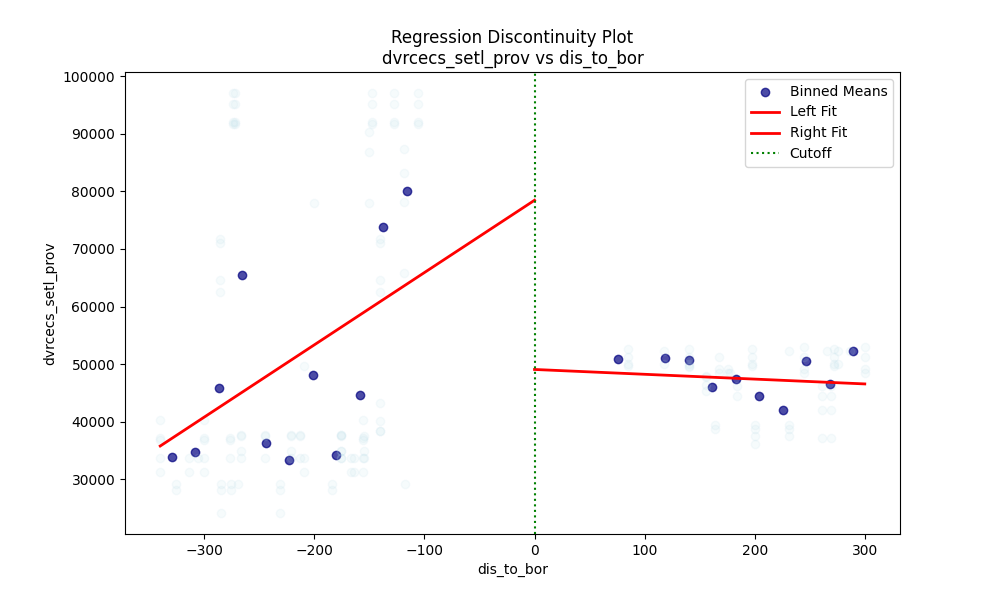
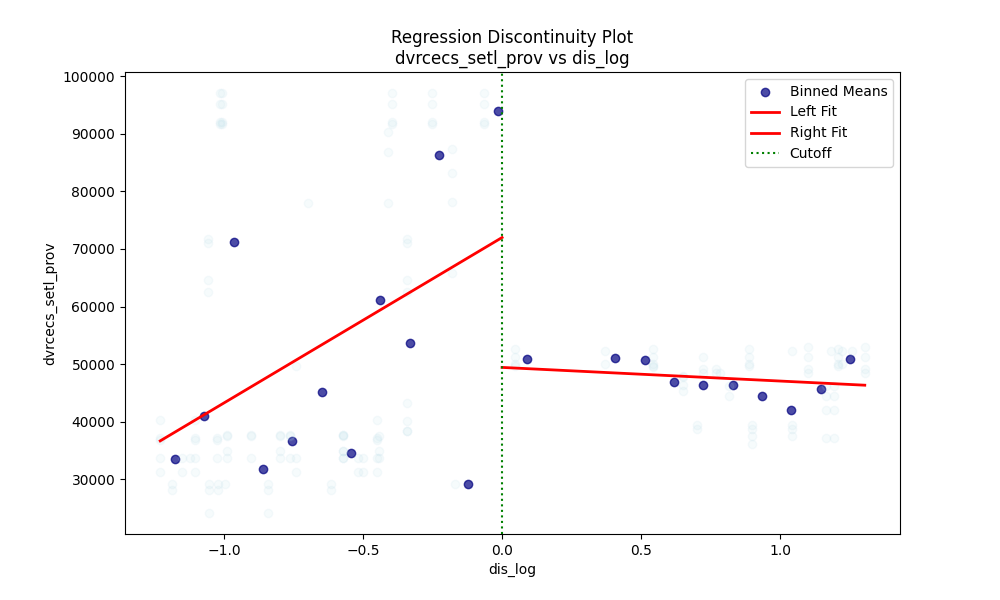
Dec-11 Backup

diff --git a/ECON_526_FinalProject_Code.py b/ECON_526_FinalProject_Code.py
@@ -13,6 +13,7 @@ Key changes after comments from Paul:
 3. The significant outcomes are unchanged.
 
 Still needs to be done:
+!!!The Plots_Out_TCP isn't good enough!!!
 1. Report the table with Confidence Interval and Standard Error
 2. Choose some other significant / insignificant results that people are interested in
 3. Be honest
@@ -268,7 +269,7 @@ if runRegression:
     
     # sort out dependent variables with significance
     dependent_vars_sig = [
-        "scnd_gdp", "incm_tnpc", "cpi_04","dvrcecs_setl_prov_pc","open", "ln_avghsprice", "hsprice_pegrth"
+        "scnd_gdp", "incm_tnpc", "cpi_04","dvrcecs_setl_prov","dvrcecs_setl_prov_pc","open", "ln_avghsprice", "hsprice_pegrth"
     ]
     
     # Find and create directory for plots and save them 
@@ -401,7 +402,7 @@ if runTCP:
         return plt
     
     # sort out dependent variables with significance
-    dependent_vars_sig_TCP = ["scnd_gdp", "incm_tnpc", "cpi_04","dvrcecs_setl_prov_pc","open", "ln_avghsprice", "hsprice_pegrth"]
+    dependent_vars_sig_TCP = ["scnd_gdp", "incm_tnpc", "cpi_04","dvrcecs_setl_prov","dvrcecs_setl_prov_pc","open", "ln_avghsprice", "hsprice_pegrth"]
     
     # Find and create directory for plots and save them 
     main_folder = os.getcwd()
